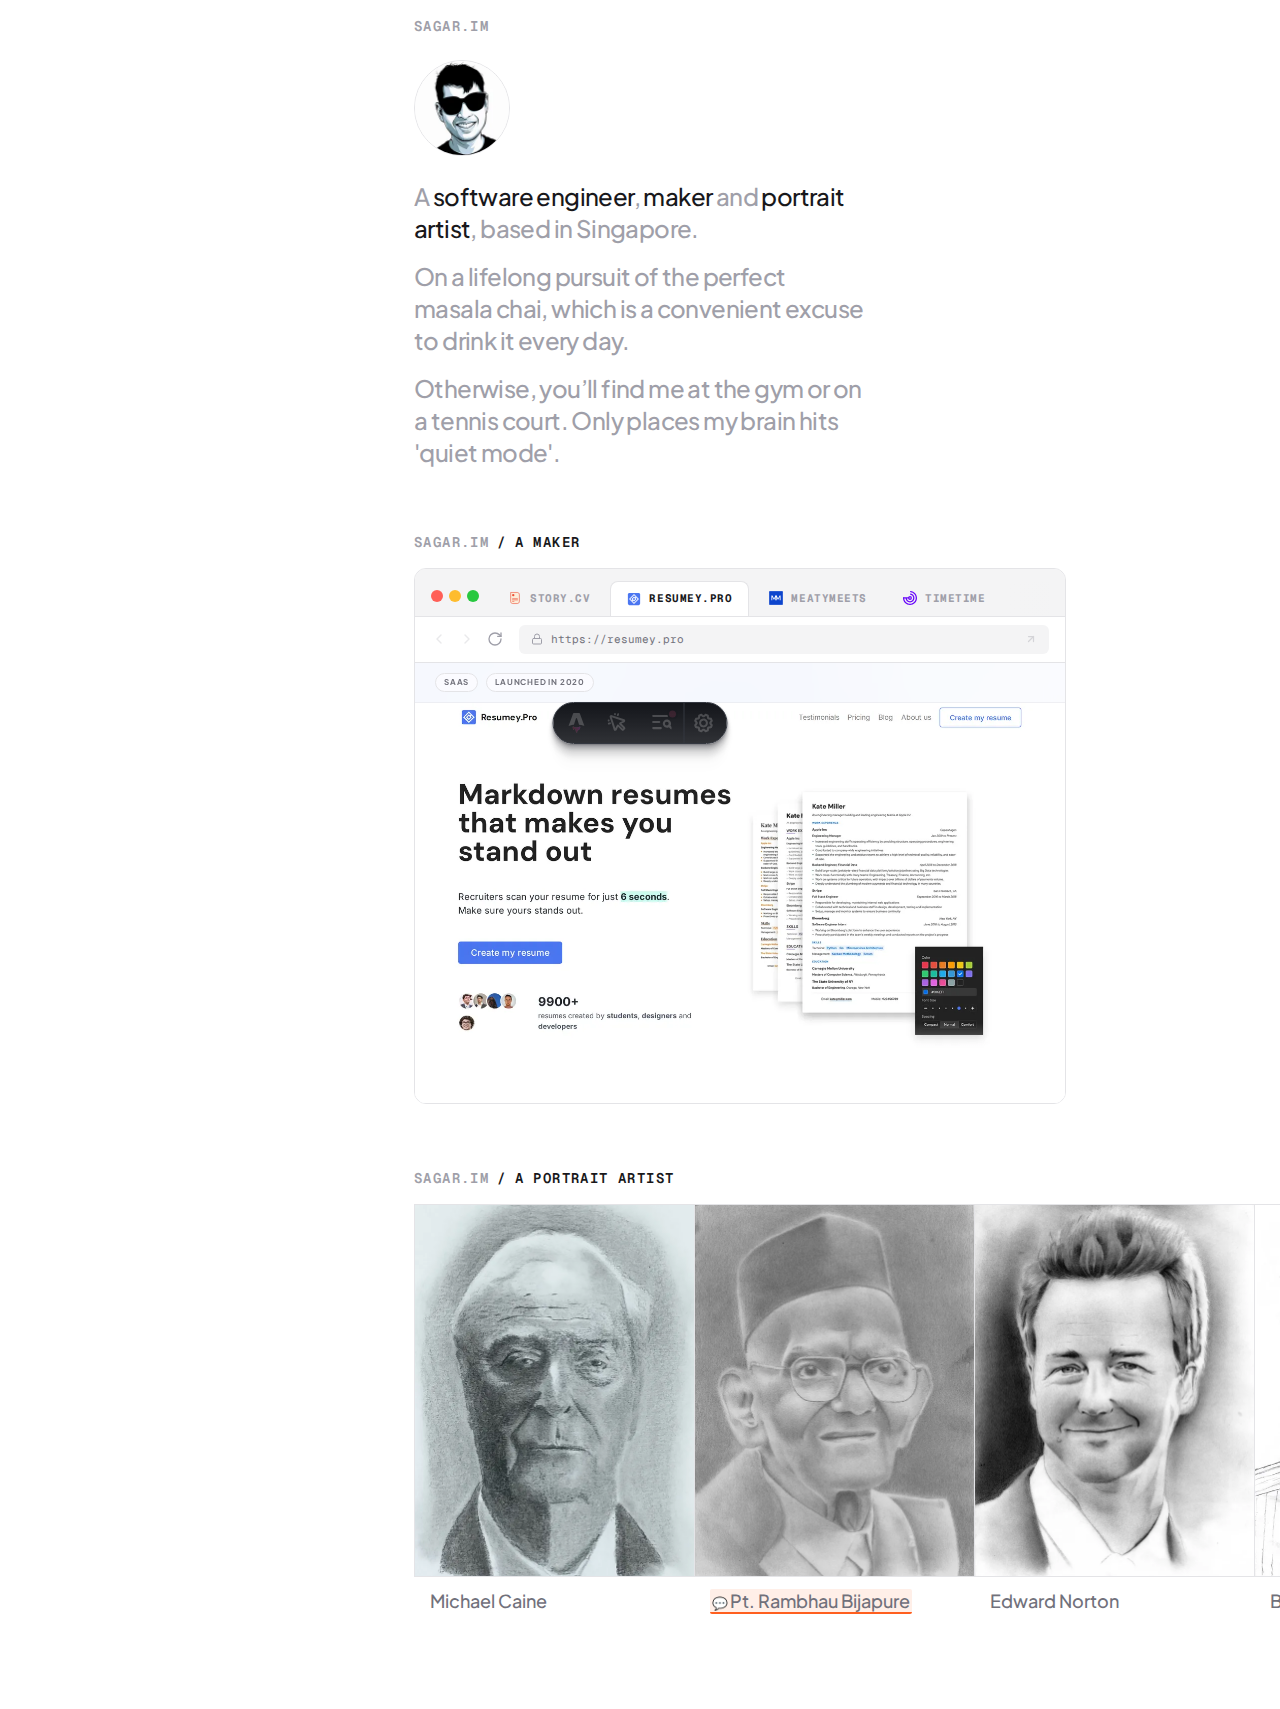
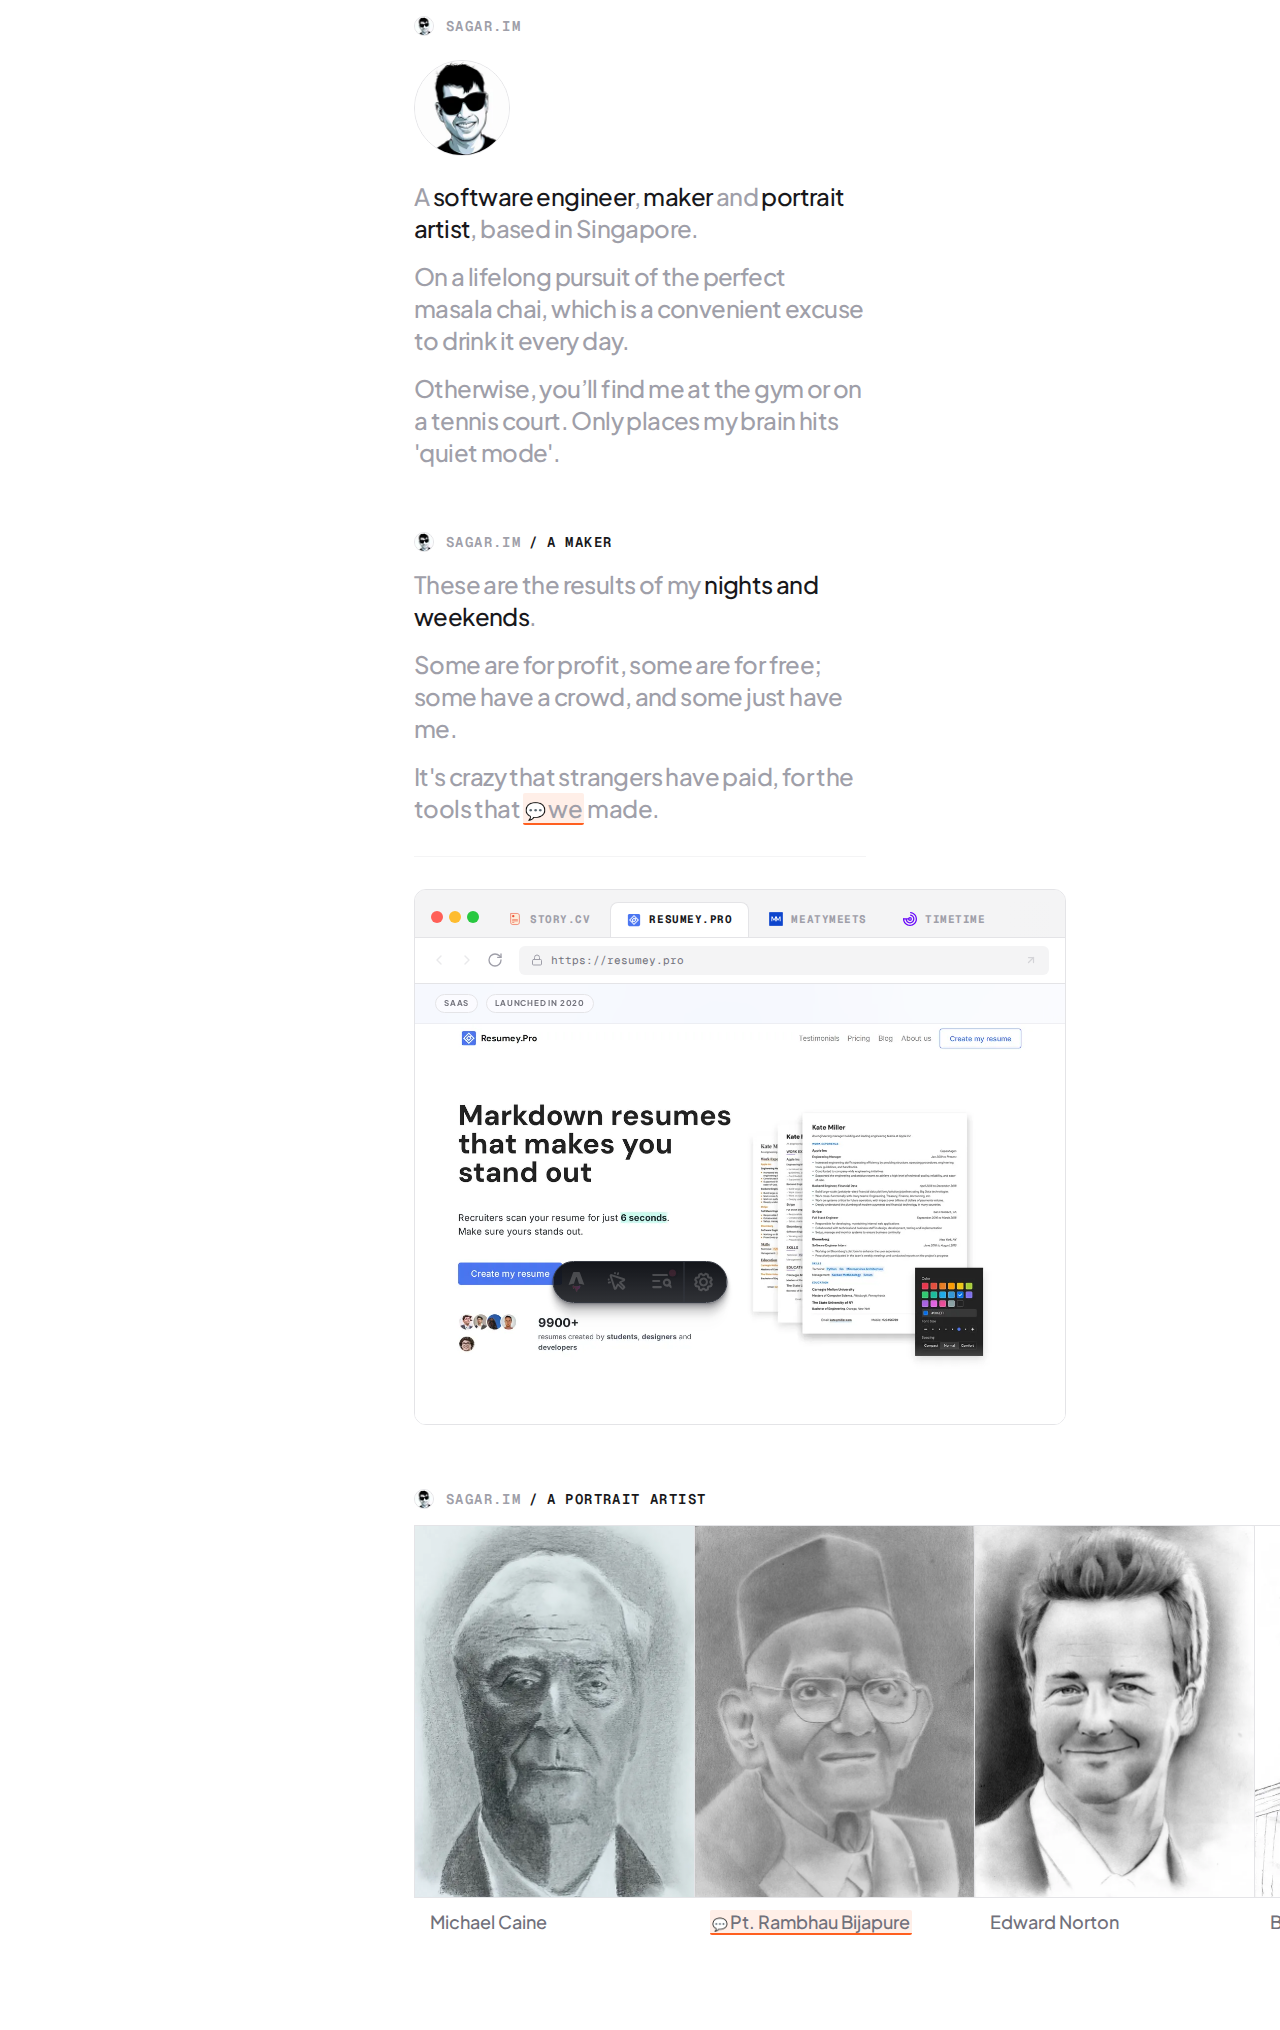
Update Maker section content and add comment (#24)
* Add introductory text and comment to Maker section

- Inserted introductory paragraphs and a horizontal rule to the Maker section.
- Added a `data-comment` to the word "we" in the text.
- Added a new Playwright test `tests/maker-comment.spec.ts` to verify the changes.

* Update Maker section content, add comment, and refresh screenshots

- Inserted introductory paragraphs and a horizontal rule to the Maker section in `src/pages/index.astro`.
- Added a `data-comment` to the word "we" with details about Kavya's contributions.
- Added a new Playwright test `tests/maker-comment.spec.ts` for verification.
- Refreshed desktop and mobile screenshots using `npm run take-screenshots` to reflect the UI changes.

* Align Maker section introductory text style with hero title

- Updated `src/pages/index.astro` to use `font-plus font-medium tracking-tight text-zinc-400 text-2xl` for the Maker section intro.
- Restructured text segments using `<span class="block mt-4">` for consistent multi-line flow.
- Highlighted "nights and weekends" with `text-zinc-900` to match the hero's dual-tone style.
- Updated Playwright test and refreshed screenshots to reflect the new styling.

---------

diff --git a/tests/maker-comment.spec.ts b/tests/maker-comment.spec.ts
@@ -1,0 +1,20 @@
+import { test, expect } from '@playwright/test';
+
+test('Maker section content and comment', async ({ page }) => {
+  await page.goto('http://localhost:4321/');
+
+  // Check for the new content
+  await expect(page.getByText('These are the results of my nights and weekends.')).toBeVisible();
+  await expect(page.getByText('Some are for profit, some are for free')).toBeVisible();
+
+  // Check for the comment trigger
+  const trigger = page.locator('span[data-comment*="Kavya"]');
+  await expect(trigger).toBeVisible();
+  await expect(trigger).toHaveText('we');
+
+  // Click the trigger and check if comment appears
+  await trigger.click();
+  const commentBody = page.locator('.page-comment-body');
+  await expect(commentBody).toBeVisible();
+  await expect(commentBody).toContainText('Kavya (my wife) and I worked on many of these projects together.');
+});
